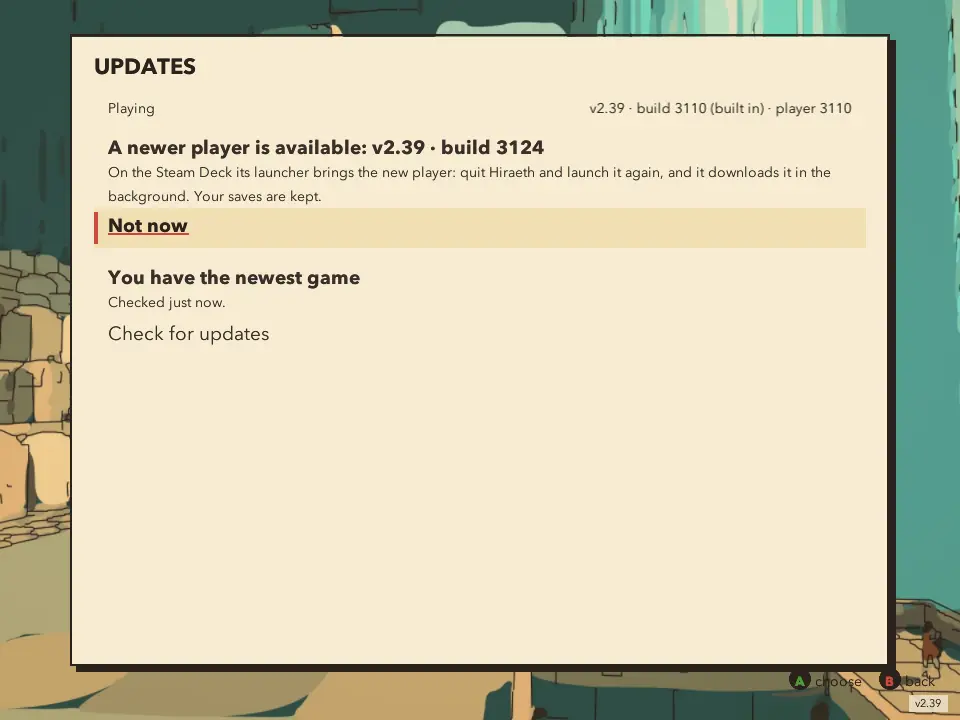
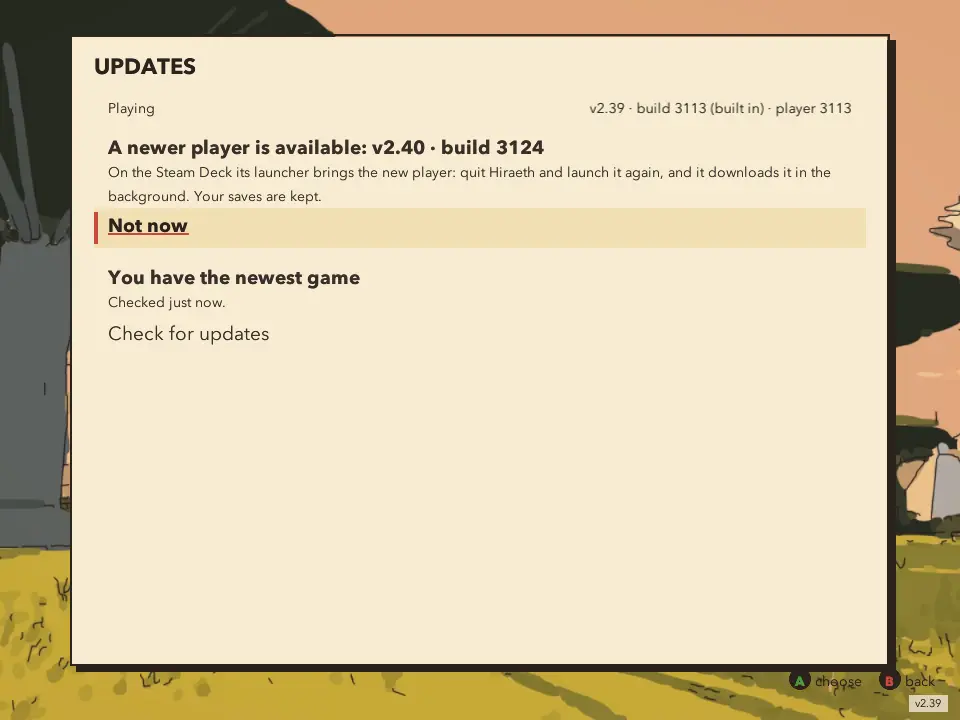
Refs #805: launch offers only for a new version; a newer build of the same version waits in Updates
GeckoView APKs now build after every tested push (c2f1e5568), so the launch dialog must not come back
at most launches. UpdateRules.apkOffer takes latest.json's name and the app's versionName: it asks at
launch only for a different version (once, "Later" remembered) or a newer native bridge (always, as
before); a newer build of the same version is "quiet": Settings > Updates shows "A new app is
available" with Install the new app, never a dialog.

The Unity title card follows the same rule: BridgeUpdates.Info reports the player's own version
(appVersion, its bundle.json's), playerOffer's `card` is true only for a different version, and the
title's card and the line under Updates show only then; the Updates page still offers every newer
build. Checked in Unity batch mode with the local test feed: v2.40 over v2.39 shows the card (Android
and the Deck); v2.39 build 3124 over build 3110 shows none, the page still offers it. Pictures
retaken, one added for the same-version case. Tests, docs and the changelog line follow.

Changed region(s): [[0.0, 0.0, 1.0, 1.0], [0.4062, 0.1833, 0.4375, 0.2139]]

diff --git a/tests/installer-offer.test.js b/tests/installer-offer.test.js
@@ -109,10 +109,10 @@ test('unity.json carries players only when there are some; the deploy reads them
 // ---------------------------------------------------------------- the decision
 
 const players = { android: { build: 3012, version: '2.39', url: APK, size: 176_564_648, sha256: SHA }, linux: { ...record('linux', 3012) }, xbox: { ...record('xbox', 3012) } };
-const unity = (o = {}) => ({ platform: 'unity', web: 2957, app: 2957, native: 5, check: 'current', players, os: 'android', apkInstall: true, openUrl: true, ...o });
+const unity = (o = {}) => ({ platform: 'unity', web: 2957, app: 2957, appVersion: '2.33', native: 5, check: 'current', players, os: 'android', apkInstall: true, openUrl: true, ...o });
 
 test('a Unity player offers the newest player of its platform when its own build is older, and nothing otherwise', () => {
-  assert.deepEqual(playerOffer(unity()), { platform: 'android', build: 3012, version: '2.39', size: 176_564_648, url: APK, sha256: SHA, how: 'install', dismissed: false }, 'older: install');
+  assert.deepEqual(playerOffer(unity()), { platform: 'android', build: 3012, version: '2.39', size: 176_564_648, url: APK, sha256: SHA, how: 'install', dismissed: false, card: true }, 'older: install');
   assert.equal(playerOffer(unity({ app: 3012 })), null, 'the same build');
   assert.equal(playerOffer(unity({ app: 3050 })), null, 'a newer one installed by hand');
   assert.equal(playerOffer(unity({ players: {} })), null, 'no newest player advertised');
@@ -129,6 +129,11 @@ test('a Unity player offers the newest player of its platform when its own build
   assert.equal(playerOffer(unity({ os: 'xbox' }))?.how, 'notice', 'the Xbox: notice only');
   assert.equal(playerOffer(unity(), { dismissed: 3012 }).dismissed, true, '"Not now" to this build');
   assert.equal(playerOffer(unity(), { dismissed: 3001 }).dismissed, false, 'a newer build than the one dismissed');
+  // the title's card only for a new version: a testers' build comes often, a newer build of this version is the page's only
+  assert.equal(playerOffer(unity()).card, true, 'v2.39 over v2.33: the title says so');
+  assert.equal(playerOffer(unity({ appVersion: '2.39' })).card, false, 'a newer build of the same version: Updates only');
+  assert.equal(playerOffer(unity({ appVersion: '2.39' })).how, 'install', 'still offered, with its button');
+  assert.equal(playerOffer(unity({ appVersion: undefined })).card, true, 'its own version unknown: shown');
 });
 
 test('what the offer says and offers: install with its progress on Android, how they update on the Deck and the Xbox', () => {
@@ -237,6 +242,14 @@ test('the title shows the offer\'s card and says it under Updates; "Not now" hid
   host.info = { ...host.info, players: { ...players, android: { ...players.android, build: 3020 } } };
   t += 5000; m.tick();
   assert.match(m.view().offer.sub, /build 3020/);
+  // a newer build of the player's own version: no card, nothing under Updates; the page offers it
+  host.info = { ...host.info, appVersion: '2.39' };
+  t += 5000; m.tick();
+  assert.equal(m.view().offer, undefined, 'the same version: no card');
+  assert.equal(m.view().rows.find((r) => r.text === 'Updates').sub, '');
+  assert.deepEqual(updates.rows().filter((r) => r.act).map((r) => r.act), ['offer-install', 'offer-dismiss', 'check'], 'the page still offers it');
+  host.info = { ...host.info, appVersion: '2.33' };
+  t += 5000; m.tick();
   // a tap on the card: the Updates page
   m.pointer({ how: 'press', pt: 'offer' });
   assert.equal(m.title.screen, 'updates');
@@ -274,6 +287,7 @@ test('the Unity player: the feed\'s players in its info, the APK downloaded and 
   assert.match(upd, /\["players"\] = manifest\?\.Get\("players"\) as Dictionary<string, object> \?\? new Dictionary<string, object>\(\)/);
   assert.match(upd, /\["playerPlatform"\] = BridgeArgs\.Arg\("-player-platform"\) \?\? ""/);
   assert.match(upd, /\["apkInstall"\] = BridgeApk\.Supported/);
+  assert.match(upd, /\["appVersion"\] = Builtin\.version/, 'its own version: the title\'s card only for a new one');
   assert.match(host, /public static string ApkInfo\(\) => Ask\(BridgeApk\.Info\);/);
   assert.match(host, /public static void ApkInstall\(int build\) => On\(\(\) => BridgeApk\.Install\(build\)\);/);
   // only the feed's newer build, from the game's releases, at its size and sha256 (checked off the main thread)

diff --git a/tests/android-ota.test.js b/tests/android-ota.test.js
@@ -157,24 +157,26 @@ test('nothing in the update path touches the saves (the page\'s storage)', () =>
   }
 });
 
-test('the APK updater offers any newer APK, once a build at launch, and always one the game needs (issue #805)', () => {
+test('the APK updater offers any newer APK: a new version once at launch, a newer build in the settings only, one the game needs always (issue #805)', () => {
   const src = java('Updater.java'), rules = java('UpdateRules.java');
   assert.match(src, /boolean required = latest\.optInt\("native", 0\) > WebBundles\.NATIVE_API/);
-  assert.match(src, /UpdateRules\.apkOffer\(code, currentCode\(\), required, prefs\.getLong\("apkDismissed", 0\), debuggable\(\)\)/);
+  assert.match(src, /UpdateRules\.apkOffer\(code, currentCode\(\), required, prefs\.getLong\("apkDismissed", 0\), debuggable\(\), name, currentName\(\)\)/);
+  assert.match(src, /getPackageInfo\(activity\.getPackageName\(\), 0\)\.versionName/, 'its own versionName');
   assert.match(src, /web\.apkOffered\(name, apk, /, 'the settings know about the APK it offered');
   assert.match(src, /if \("ask"\.equals\(what\)\) ui\.post\(\(\) -> offer\(name, code, required\)\)/, 'the dialog only when it asks');
   // ("Later" keeps the build for the next launch, never for one the game needs)
   assert.match(src, /if \(!required\) activity\.getSharedPreferences\(PREFS, Activity\.MODE_PRIVATE\)\.edit\(\)\.putLong\("apkDismissed", code\)/);
   // the rule, as UpdateRulesTest checks it in Java
   const body = /static String apkOffer\([^)]*\) \{([\s\S]*?)\n    \}/.exec(rules)[1];
-  const apkOffer = new Function('code', 'current', 'required', 'dismissed', 'debug', body.replace(/"/g, "'"));
-  assert.equal(apkOffer(3000, 3000, false, 0, false), 'none', 'the same build');
-  assert.equal(apkOffer(2990, 3000, true, 0, false), 'none', 'an older one, even with a newer bridge');
-  assert.equal(apkOffer(3010, 3000, false, 0, false), 'ask', 'newer: the launch asks');
-  assert.equal(apkOffer(3010, 3000, false, 3010, false), 'quiet', '"Later" to it: the settings only');
-  assert.equal(apkOffer(3020, 3000, false, 3010, false), 'ask', 'the next build asks again');
-  assert.equal(apkOffer(3010, 3000, true, 3010, false), 'ask', 'one the game needs always asks');
-  assert.equal(apkOffer(3010, 1, false, 0, true), 'quiet', 'a debug build: the settings only');
+  const apkOffer = new Function('code', 'current', 'required', 'dismissed', 'debug', 'version', 'currentVersion', body.replace(/"/g, "'").replace(/!(\w+)\.isEmpty\(\)/g, "$1 !== ''").replace(/\.equals\(/g, ' === ('));
+  assert.equal(apkOffer(3000, 3000, false, 0, false, '2.40', '2.39'), 'none', 'the same build');
+  assert.equal(apkOffer(2990, 3000, true, 0, false, '2.40', '2.39'), 'none', 'an older one, even with a newer bridge');
+  assert.equal(apkOffer(3010, 3000, false, 0, false, '2.40', '2.39'), 'ask', 'a new version: the launch asks');
+  assert.equal(apkOffer(3010, 3000, false, 0, false, '2.39', '2.39'), 'quiet', 'a newer build of the same version: the settings only (an APK every push)');
+  assert.equal(apkOffer(3010, 3000, false, 3010, false, '2.40', '2.39'), 'quiet', '"Later" to it: the settings only');
+  assert.equal(apkOffer(3020, 3000, false, 3010, false, '2.41', '2.39'), 'ask', 'the next version asks again');
+  assert.equal(apkOffer(3010, 3000, true, 3010, false, '2.39', '2.39'), 'ask', 'one the game needs always asks');
+  assert.equal(apkOffer(3010, 1, false, 0, true, '2.40', 'dev'), 'quiet', 'a debug build: the settings only');
 });
 
 test('the new APK downloads into the cache with its progress, then Android\'s installer, from the dialog or the settings (NATIVE_API 10)', () => {

diff --git a/src/changelog.js b/src/changelog.js
@@ -14,8 +14,8 @@ export const CHANGELOG = [
       { text: 'The Journal and Pause menus now match the HUD in the browser and Unity: dark enamel, fine brass borders, ivory lettering and a turquoise selection mark. Items have an ivory inspection card beside the grid that follows your selection; confirming still opens the item’s actions. Smaller screens keep the card beneath the grid.',
         see: 'Open the Journal with View or J, turn to Items with RB / R1 or E, and move through the grid. Open Pause with Menu or Esc to try Settings and Controls. Unity players get the new menu frames in the updated native app.' },
       // a newer installer offered (#805)
-      { text: 'The apps now tell you when a newer version of the app itself is out, not only when the game needs one. The Unity version shows a small card on the title screen and puts the offer at the top of Updates: on Android one press downloads it, with its progress, and opens Android’s installer, which installs it over the old one and keeps your saves; on the Steam Deck and the Xbox it says how they update. The Android app asks once when it starts and keeps the offer in Updates, with Install the new app. Choose Not now (or Later) and it waits for the next version. Install this version by hand once; after that the apps offer each new one.',
-        see: 'In the Unity version, open the title screen when a newer player is out: the card is at the bottom right, and Updates offers Download and install (Android) or says how to update (Steam Deck, Xbox). In the Android app, open Settings ▸ Updates.' },
+      { text: 'The apps now tell you when a newer version of the app itself is out, not only when the game needs one. In the Unity version a new version shows a small card on the title screen, and Updates puts the offer at the top: on Android one press downloads it, with its progress, and opens Android’s installer, which installs it over the old one and keeps your saves; on the Steam Deck and the Xbox it says how they update. The Android app asks once when it starts for a new version, with Install the new app also in Updates. A newer build of the version you already have waits quietly in Updates and never interrupts you. Choose Not now (or Later) and it waits for the next one. Install this version by hand once; after that the apps offer each new one.',
+        see: 'In the Unity version, open the title screen when a new version is out: the card is at the bottom right, and Updates offers Download and install (Android) or says how to update (Steam Deck, Xbox). In the Android app, open Settings ▸ Updates.' },
       // the shellback crab (#800)
       { text: 'The crab has a new body, drawn from its new design: a tall ochre dome with a pale face peering out from under its rim, a fat green collar, six thick cream legs on broad red feet and two big curved red pincers. It turns its face and eyes to follow you as you move round it, and its snap opens the pincer wide before it chops down and slams it shut. In each world it wears that world’s colours and dress: barnacles, a rope and an anchor in the Salt Harbour, a stall’s striped awning in the Signal Market, coral in the Underwater City, glass spikes in the Glass Dunes, a beetle’s feelers in the Sealed Hangar and the Forest of Antennas. It fights exactly as before, and a pack of crabs is far lighter for your device to draw.',
         see: 'Land on Vael II: The Sky Stones and meet a cliff crab, or open the Arena and pick a crab from the foe list (D-pad ↓, K). Walk round it: its face and slit eyes turn to keep you in view. Let it snap, and watch the pincer open before the blow.' },

diff --git a/src/changelog-media.js b/src/changelog-media.js
@@ -1496,7 +1496,7 @@ const FROM739_UNITY = 'Unity editor batch mode, muted (scripts/unity-js-run.sh -
 const FROM739_FRAMES = 'Hand-made (no `view`): the Odin 3’s own frames of scripts/motion-check/record.mjs --android (its Chrome, muted, Handheld at 0.75, the world held and the camera turned a third of a pixel a frame), frames 30 and 31 of the 60, a 1:1 crop of the canvas (832 × 388 device px) at the wall 17 m off; 7656e9b09 (before) and this change (after), 30 October 2026. WebP by cwebp -q 74';
 
 /** (v2.39, issue #805: the offer of a newer player in the Unity version) */
-const FROM805 = 'Unity 6000.6.4f1 editor batch mode on macOS, muted (scripts/unity-js-run.sh -mute -title-shots … -title-updates), 30 October 2026, this branch (built-in build 3110); a test feed served locally (-updates http://127.0.0.1:5461/updates/unity.json) advertising a made-up newer player, build 3124, -player-platform android (or linux) since the editor is neither; an isolated store; nothing downloaded or installed. The batch picture, WebP by cwebp -q 74. After-only: there was no offer before';
+const FROM805 = 'Unity 6000.6.4f1 editor batch mode on macOS, muted (scripts/unity-js-run.sh -mute -title-shots … -title-updates), 30 October 2026, this branch (built-in build 3110); a test feed served locally (-updates http://127.0.0.1:5461/updates/unity.json) advertising a made-up newer version, v2.40 build 3124, -player-platform android (or linux) since the editor is neither; an isolated store; nothing downloaded or installed. The batch picture, WebP by cwebp -q 74. After-only: there was no offer before';
 
 export const CHANGELOG_MEDIA = {
   '2.39': [
@@ -1508,9 +1508,10 @@ export const CHANGELOG_MEDIA = {
     ] },
   // (issue #805: a newer player offered; after-only, the offer is new; hand-made, no `view`)
   { match: 'The apps now tell you when a newer version of the app itself is out', shots: [
-    { name: 'offer805-title', title: 'Title', only: 'after', size: [1280, 720], caption: 'The Unity version’s title screen with a newer player out: the enamel card at the bottom right and “A newer player is available” under Updates', from: FROM805 },
+    { name: 'offer805-title', title: 'Title', only: 'after', size: [1280, 720], caption: 'The Unity version’s title screen with a new version out (v2.40 over v2.39): the enamel card at the bottom right and “A newer player is available” under Updates', from: FROM805 },
     { name: 'offer805-updates', title: 'Updates (Android)', only: 'after', size: [1280, 720], caption: 'Updates on Android: the newer player first, with Download and install and Not now, then the game’s own updates as before', from: FROM805 },
     { name: 'offer805-deck', title: 'Updates (Steam Deck)', only: 'after', size: [960, 720], caption: 'Updates on the Steam Deck: it says how the Deck brings the new player, with Not now only', from: `${FROM805}; -player-platform linux, 960 × 720` },
+    { name: 'offer805-samever', title: 'Same version', only: 'after', size: [1280, 720], caption: 'A newer build of the version already installed (v2.39 build 3124 over build 3110): no card on the title and nothing under Updates; only the Updates page offers it', from: `${FROM805}; the test feed’s player set to v2.39 for this one` },
   ] },
   // (issue #800: the shellback crab on its Tripo body; hand-made pairs, the same script and camera before and after)
   { match: 'The crab has a new body, drawn from its new design', tags: ['combat'], shots: [

diff --git a/src/updates.js b/src/updates.js
@@ -41,7 +41,8 @@ export const isNewerBuild = (build, info) => (build || 0) > Math.max(info?.web |
 // The players and the app ask for a new installer not only when the game needs one (minUnity, NATIVE_API) but whenever a
 // newer one is published: a Unity player whose own build is older than the newest player of its platform (unity.json's
 // `players`, from each prerelease's player.json: scripts/web-update.mjs newestPlayers), the Android app whose versionCode
-// is older than latest.json's `code`. Never in the way: an offer on the title and in Updates, dismissed until the next build.
+// is older than latest.json's `code`. Never in the way: a new version is offered at launch (the Unity title's card, the
+// app's dialog), dismissed until the next build; a newer build of the same version only in Updates.
 
 /** Where every newest player is downloaded from (its prerelease's file: release-metadata.mjs playerUrl). */
 export const PLAYER_DOWNLOADS = 'https://github.com/rnaud/hiraeth/releases/download/';
@@ -55,7 +56,9 @@ export const OFFER_DISMISSED_KEY = 'hiraeth.playerOffer.dismissed';
  * `playerPlatform` or `os`, `apkInstall` whether it can download and install an APK itself, `openUrl`.)
  * @param o.dismissed the build "Not now" was said to: still offered in Updates, no longer on the title
  * @returns null (none: no entry for this platform, the same or an older build, no file to point at) or
- *   { platform, build, version, size, url, sha256, how: 'install' | 'open' | 'notice', dismissed }
+ *   { platform, build, version, size, url, sha256, how: 'install' | 'open' | 'notice', dismissed, card }
+ *   card: a new version (the changelog's vX.Y) against the player's own (`appVersion`), shown on the title; a newer
+ *   build of the same version (a testers' build comes often) is offered on the Updates page only
  *   install: the Android player downloads it and opens Android's installer; open: its browser downloads it (a player
  *   with OpenUrl only); notice: the Deck's launcher or the Xbox's portal brings it, the offer only says so.
  */
@@ -67,7 +70,8 @@ export function playerOffer(info, { dismissed = 0 } = {}) {
   // (a record without its file is never offered: the deploy only writes those it found, this checks again)
   if (typeof p.url !== 'string' || !p.url.startsWith(PLAYER_DOWNLOADS) || !(p.size > 0) || !/^[0-9a-f]{64}$/i.test(p.sha256 ?? '')) return null;
   const how = platform !== 'android' ? 'notice' : info.apkInstall ? 'install' : info.openUrl ? 'open' : 'notice';
-  return { platform, build: p.build, version: String(p.version ?? ''), size: p.size, url: p.url, sha256: p.sha256, how, dismissed: +dismissed === p.build };
+  const version = String(p.version ?? ''), card = !version || !info.appVersion || version !== String(info.appVersion);
+  return { platform, build: p.build, version, size: p.size, url: p.url, sha256: p.sha256, how, dismissed: +dismissed === p.build, card };
 }
 
 /**

diff --git a/engine/unity/updates.js b/engine/unity/updates.js
@@ -11,7 +11,7 @@
 //   updates.titleOffer(); updates.titleTick();   // (the title's card: a newer player is available, issue #805)
 //
 // A newer player (issue #805): when the feed's newest player of this platform (unity.json's players, BridgeUpdates.Info) is
-// newer than this one, the title shows a small card and the page starts with the offer (src/updates.js playerOffer,
+// newer than this one, the page starts with the offer, and for a new version the title shows a small card (src/updates.js playerOffer,
 // playerOfferView): on Android "Download and install" (BridgeHost.ApkInstall: the download with its progress, then
 // Android's installer, BridgeApk.cs), on the Deck and the Xbox how they update. "Not now" keeps that build out of the
 // title (the store's OFFER_DISMISSED_KEY) until a newer one; the page still has it. The script's own updates go on as before.
@@ -99,10 +99,10 @@ export class UnityUpdates {
   /** The offer of a newer player, or null (src/updates.js playerOffer). */
   offer() { return this.info ? playerOffer(this.info, { dismissed: this.dismissed() }) : null; }
   offerView() { return playerOfferView(this.offer(), this.apk); }
-  /** The title's card ({ title, sub, how, progress }), or null: none, or "Not now" said to this build. */
+  /** The title's card ({ title, sub, how, progress }), or null: none, a newer build of this version (the page only), or "Not now" said to it. */
   titleOffer() {
     const o = this.offer();
-    if (!o || o.dismissed) return null;
+    if (!o || !o.card || o.dismissed) return null;
     const v = playerOfferView(o, this.apk);
     return { ...v.card, progress: v.progress };
   }

diff --git a/android/app/src/main/java/com/rnaud/hiraeth/Updater.java b/android/app/src/main/java/com/rnaud/hiraeth/Updater.java
@@ -30,8 +30,10 @@ import java.net.URL;
 // release, which the Android workflow uploads next to the APK: { "code": <versionCode>,
 // "name": "0.35", "apk": "<download url>", "native": <WebBundles.NATIVE_API> }.
 // Since NATIVE_API 10 (issue #805) any newer build is offered, not only one whose native bridge
-// is newer: UpdateRules.apkOffer decides. The launch asks once per build ("Later" is kept for that
-// build, `apkDismissed`; one the game needs, a newer native bridge, asks every launch as before),
+// is newer: UpdateRules.apkOffer decides. An APK is built after every tested push, so the launch
+// asks only for a new version (latest.json's name against this app's versionName), once ("Later" is
+// kept for that build, `apkDismissed`); a newer build of the same version is offered in the settings
+// only. One the game needs (a newer native bridge) asks every launch as before;
 // and the settings show it until it is installed (WebBundles.fill: apkBuild, apkState, apkGot,
 // apkTotal; src/updates.js appOffer). "Update" (or the settings' "Install the new app", AppShell
 // installApk) downloads it into the cache with its progress and hands it to the system installer.
@@ -66,9 +68,9 @@ final class Updater {
                 // (releases from before the over-the-air updates have no "native": a bridge newer than this one is required)
                 boolean required = latest.optInt("native", 0) > WebBundles.NATIVE_API;
                 SharedPreferences prefs = activity.getSharedPreferences(PREFS, Activity.MODE_PRIVATE);
-                String what = UpdateRules.apkOffer(code, currentCode(), required, prefs.getLong("apkDismissed", 0), debuggable());
+                String name = latest.optString("name", "");
+                String what = UpdateRules.apkOffer(code, currentCode(), required, prefs.getLong("apkDismissed", 0), debuggable(), name, currentName());
                 if (!"none".equals(what)) {
-                    String name = latest.optString("name", "");
                     String apk = latest.getString("apk");
                     offered(code, name, apk);
                     if (web != null) web.apkOffered(name, apk, latest.optString("page", ""));
@@ -92,6 +94,11 @@ final class Updater {
     private long currentCode() throws Exception {
         PackageInfo info = activity.getPackageManager().getPackageInfo(activity.getPackageName(), 0);
         return PackageInfoCompat.getLongVersionCode(info);
+    }
+
+    private String currentName() throws Exception {
+        String n = activity.getPackageManager().getPackageInfo(activity.getPackageName(), 0).versionName;
+        return n == null ? "" : n;
     }
 
     private boolean debuggable() { return (activity.getApplicationInfo().flags & ApplicationInfo.FLAG_DEBUGGABLE) != 0; }

diff --git a/android/app/src/test/java/com/rnaud/hiraeth/UpdateRulesTest.java b/android/app/src/test/java/com/rnaud/hiraeth/UpdateRulesTest.java
@@ -26,14 +26,15 @@ public class UpdateRulesTest {
     }
 
     @Test
-    public void aNewerApkIsOfferedUntilLaterIsSaidToIt() {
-        assertEquals("none", UpdateRules.apkOffer(3000, 3000, false, 0, false));    // the same build
-        assertEquals("none", UpdateRules.apkOffer(2990, 3000, true, 0, false));     // older, even with a newer bridge
-        assertEquals("ask", UpdateRules.apkOffer(3010, 3000, false, 0, false));     // newer: the launch's dialog
-        assertEquals("quiet", UpdateRules.apkOffer(3010, 3000, false, 3010, false)); // "Later" to this one: the settings only
-        assertEquals("ask", UpdateRules.apkOffer(3020, 3000, false, 3010, false));  // the next build asks again
-        assertEquals("ask", UpdateRules.apkOffer(3010, 3000, true, 3010, false));   // one the game needs always asks
-        assertEquals("quiet", UpdateRules.apkOffer(3010, 1, false, 0, true));        // a debug build: the settings only
+    public void aNewerVersionAsksAtLaunchANewerBuildOnlyInTheSettings() {
+        assertEquals("none", UpdateRules.apkOffer(3000, 3000, false, 0, false, "2.40", "2.39"));     // the same build
+        assertEquals("none", UpdateRules.apkOffer(2990, 3000, true, 0, false, "2.40", "2.39"));      // older, even with a newer bridge
+        assertEquals("ask", UpdateRules.apkOffer(3010, 3000, false, 0, false, "2.40", "2.39"));      // a new version: the launch's dialog
+        assertEquals("quiet", UpdateRules.apkOffer(3010, 3000, false, 0, false, "2.39", "2.39"));    // a newer build of this version: the settings only
+        assertEquals("quiet", UpdateRules.apkOffer(3010, 3000, false, 3010, false, "2.40", "2.39")); // "Later" to this one: the settings only
+        assertEquals("ask", UpdateRules.apkOffer(3020, 3000, false, 3010, false, "2.41", "2.39"));   // the next version asks again
+        assertEquals("ask", UpdateRules.apkOffer(3010, 3000, true, 3010, false, "2.39", "2.39"));    // one the game needs always asks
+        assertEquals("quiet", UpdateRules.apkOffer(3010, 1, false, 0, true, "2.40", "dev"));          // a debug build: the settings only
     }
 
     @Test

diff --git a/android/app/src/main/java/com/rnaud/hiraeth/UpdateRules.java b/android/app/src/main/java/com/rnaud/hiraeth/UpdateRules.java
@@ -37,12 +37,15 @@ final class UpdateRules {
      * @param code latest.json's build (its versionCode), @param current this app's versionCode
      * @param required its native bridge is newer than this app's (the newest game may need it): asks at every launch, as before
      * @param dismissed the build "Later" was said to (prefs), @param debug a debug build (versionCode 1): never asks for a newer one
+     * @param version latest.json's name (the changelog's vX.Y), @param currentVersion this app's versionName: an APK is built
+     *   after every tested push, so a newer build of the same version is offered in the settings only, never at launch
      * @return "none" (not newer), "ask" (the launch's dialog) or "quiet" (offered in the settings only)
      */
-    static String apkOffer(long code, long current, boolean required, long dismissed, boolean debug) {
+    static String apkOffer(long code, long current, boolean required, long dismissed, boolean debug, String version, String currentVersion) {
         if (code <= current) return "none";
         if (required) return "ask";
-        return debug || code == dismissed ? "quiet" : "ask";
+        if (debug || code == dismissed) return "quiet";
+        return version != null && !version.isEmpty() && version.equals(currentVersion) ? "quiet" : "ask";
     }
 
     /**

diff --git a/unity/Hiraeth/Assets/HiraethJS/Runtime/BridgeUpdates.cs b/unity/Hiraeth/Assets/HiraethJS/Runtime/BridgeUpdates.cs
@@ -381,6 +381,7 @@ namespace Hiraeth.Bridge
                 ["players"] = manifest?.Get("players") as Dictionary<string, object> ?? new Dictionary<string, object>(),
                 ["playerPlatform"] = BridgeArgs.Arg("-player-platform") ?? "",
                 ["apkInstall"] = BridgeApk.Supported,
+                ["appVersion"] = Builtin.version,   // (the player's own version: a newer one gets the title's card, a newer build of it only the page)
             };
             lock (logLines) d["log"] = string.Join("\n", logLines);
             return BridgeArgs.JsonText(d);

diff --git a/changelog.md b/changelog.md
@@ -8,7 +8,7 @@ The same release notes shown in the game (press **N** or open settings).
 - A new foe, the wood cutter: a sage-green work robot half the furnace brute’s height, with a pale dome of a head, one visor slit that turns to watch you, and a toothed rust saw that spins up before it slams. It fights like a brute in a smaller body, so get round its side and jump the quake. One stands rusted mid-cut in Lorn’s Deep Wood, at the edge of the meadow north of the furnace brute; hedge cutters with shears walk Viridel’s gardens, and ladle hands with a clamp and a ladle work the Moon Foundry’s floor. The Arena brings it too.
 - The horned hound now stalks the Eclipse, the Mangrove, the Garden of Spheres and the Signal Market in place of the antler hound. Where a thin black deer on stick legs used to come at you under a spiky mane and a crown of antlers, a long, deep-chested hound now prowls on big paws, a patch of colour on its back and two great ram’s horns curling round its head. It still runs as a shadow far off, rises out of its pool to face you, turns its head to watch you, crouches and coils before it pounces, and fights exactly as before. Each world dresses it its own way: cream horns in the Eclipse, thick bleached horns and dripping ink in the Mangrove, dark gold-flecked horns under a pearl halo in the Garden of Spheres, and a tangle of brass wire in the Signal Market.
 - The crab has a new body, drawn from its new design: a tall ochre dome with a pale face peering out from under its rim, a fat green collar, six thick cream legs on broad red feet and two big curved red pincers. It turns its face and eyes to follow you as you move round it, and its snap opens the pincer wide before it chops down and slams it shut. In each world it wears that world’s colours and dress: barnacles, a rope and an anchor in the Salt Harbour, a stall’s striped awning in the Signal Market, coral in the Underwater City, glass spikes in the Glass Dunes, a beetle’s feelers in the Sealed Hangar and the Forest of Antennas. It fights exactly as before, and a pack of crabs is far lighter for your device to draw.
-- The apps now tell you when a newer version of the app itself is out, not only when the game needs one. The Unity version shows a small card on the title screen and puts the offer at the top of Updates: on Android one press downloads it, with its progress, and opens Android’s installer, which installs it over the old one and keeps your saves; on the Steam Deck and the Xbox it says how they update. The Android app asks once when it starts and keeps the offer in Updates, with Install the new app. Choose Not now (or Later) and it waits for the next version. Install this version by hand once; after that the apps offer each new one.
+- The apps now tell you when a newer version of the app itself is out, not only when the game needs one. In the Unity version a new version shows a small card on the title screen, and Updates puts the offer at the top: on Android one press downloads it, with its progress, and opens Android’s installer, which installs it over the old one and keeps your saves; on the Steam Deck and the Xbox it says how they update. The Android app asks once when it starts for a new version, with Install the new app also in Updates. A newer build of the version you already have waits quietly in Updates and never interrupts you. Choose Not now (or Later) and it waits for the next one. Install this version by hand once; after that the apps offer each new one.
 - The Journal and Pause menus now match the HUD in the browser and Unity: dark enamel, fine brass borders, ivory lettering and a turquoise selection mark. Items have an ivory inspection card beside the grid that follows your selection; confirming still opens the item’s actions. Smaller screens keep the card beneath the grid.
 
 ## v2.38 — 2026-10-29

diff --git a/docs/systems/android.md b/docs/systems/android.md
@@ -148,8 +148,10 @@ Now each app also offers its newest installer whenever its own build is older, w
   names a missing or half-replaced file (`--no-players` leaves them out). A Unity build finished after the last deploy
   is advertised from the next one.
 - **The GeckoView app** (`Updater`, `UpdateRules.apkOffer`): `latest.json`'s build above the app's versionCode →
-  the launch dialog asks once a build (*Later* keeps that build in prefs, `apkDismissed`; one with a newer native bridge
-  asks every launch as before; a debug build never asks). *Update* downloads it into the cache (streamed, its length
+  an APK is built after every tested push, so the launch dialog asks only when its version (`latest.json`'s `name`, the
+  changelog's vX.Y) differs from the app's versionName, once (*Later* keeps that build in prefs, `apkDismissed`); a newer
+  build of the same version shows only in the settings' Updates section. One with a newer native bridge asks every
+  launch as before; a debug build never asks. *Update* downloads it into the cache (streamed, its length
   checked, with a progress dialog) and opens Android's installer through the FileProvider; the first time it opens
   *Install unknown apps* for Hiraeth (REQUEST_INSTALL_PACKAGES is in the manifest). The settings' Updates section says
   *A new app is available: v2.40 · build 3012* with **Install the new app** (`AppShell` `installApk`, NATIVE_API 10;
